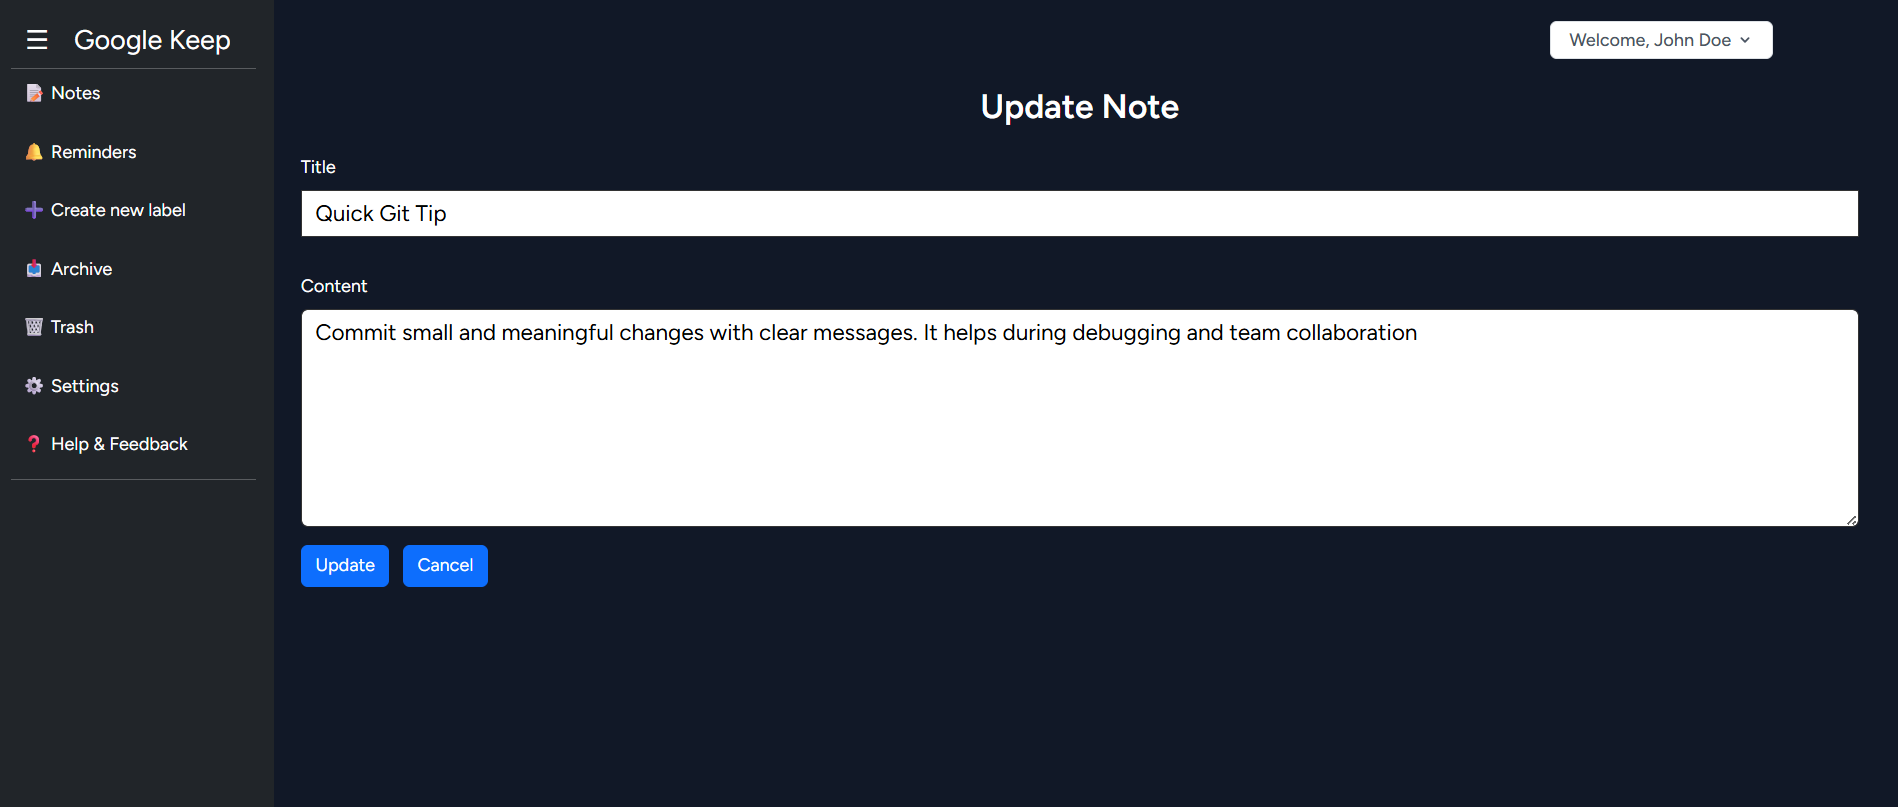
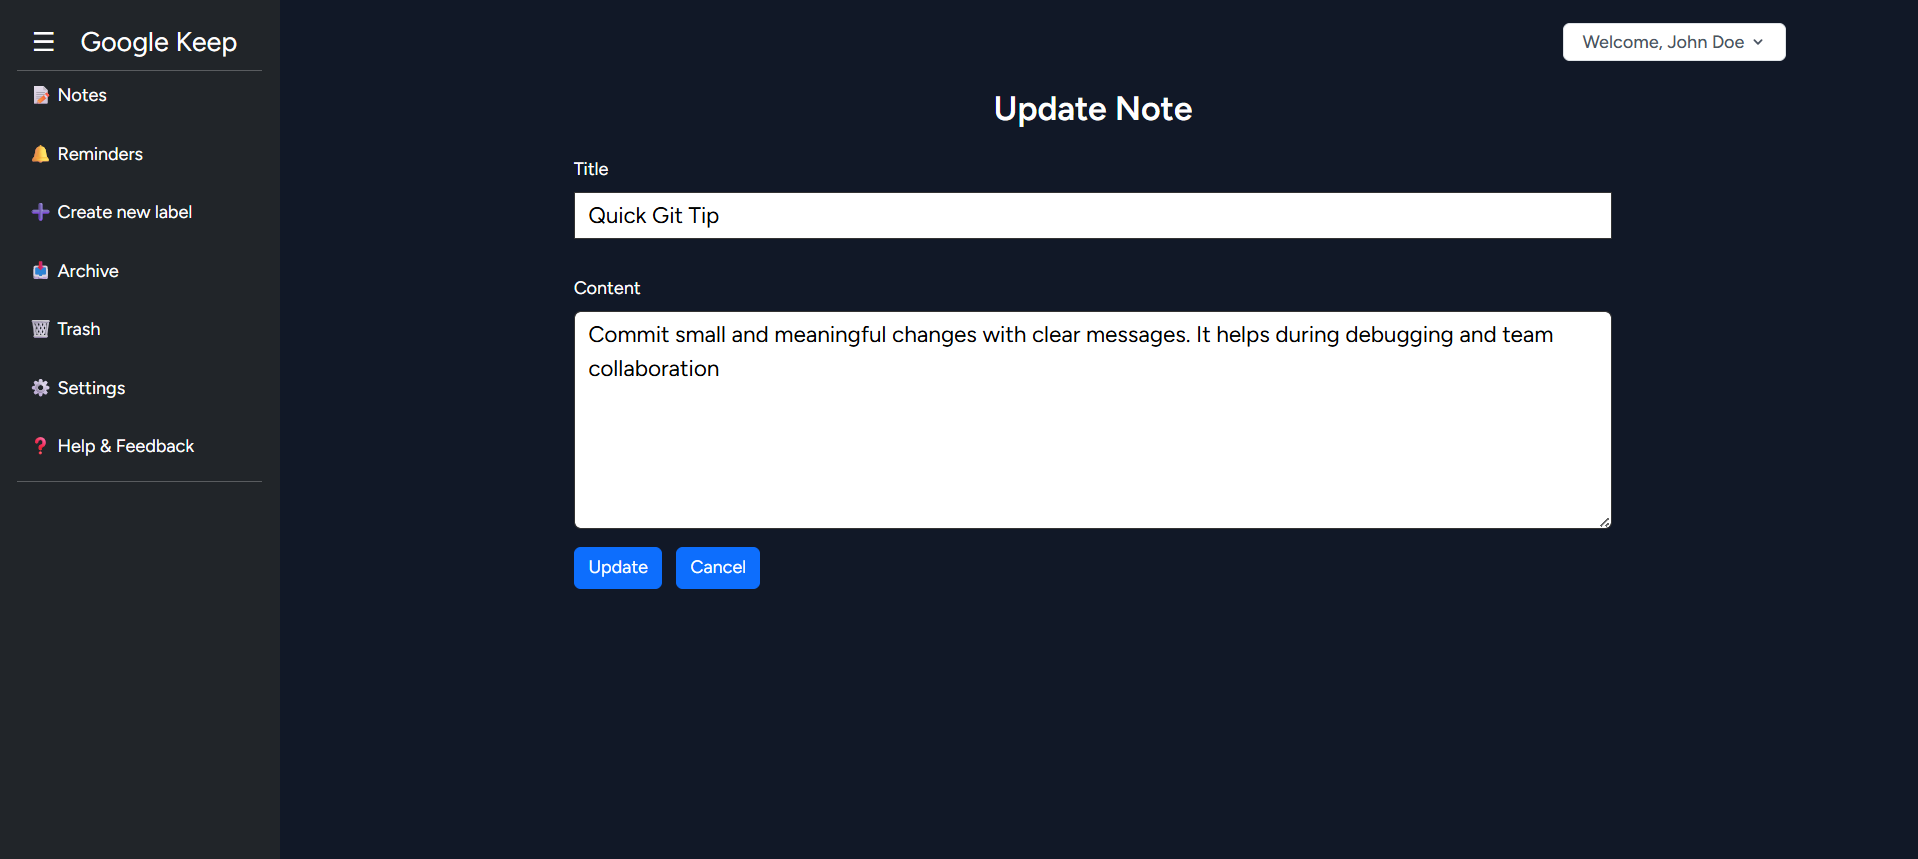
Updated the update page layout and change the screenshot

diff --git a/resources/views/notes/edit.blade.php b/resources/views/notes/edit.blade.php
@@ -53,8 +53,8 @@
                     </div>
                     <h1 class="text-3xl text-white mb-2 font-bold text-center">Update Note</h1>
                     <!-- Notes List -->
-                    <div class="row ">
-                        <div class="col">
+                    <div class="row justify-content-center">
+                        <div class="col col-md-8">
                                 <form action="{{ route('notes.update',$note->id) }}" method="POST">
                                     @csrf
                                     @method('PUT')
